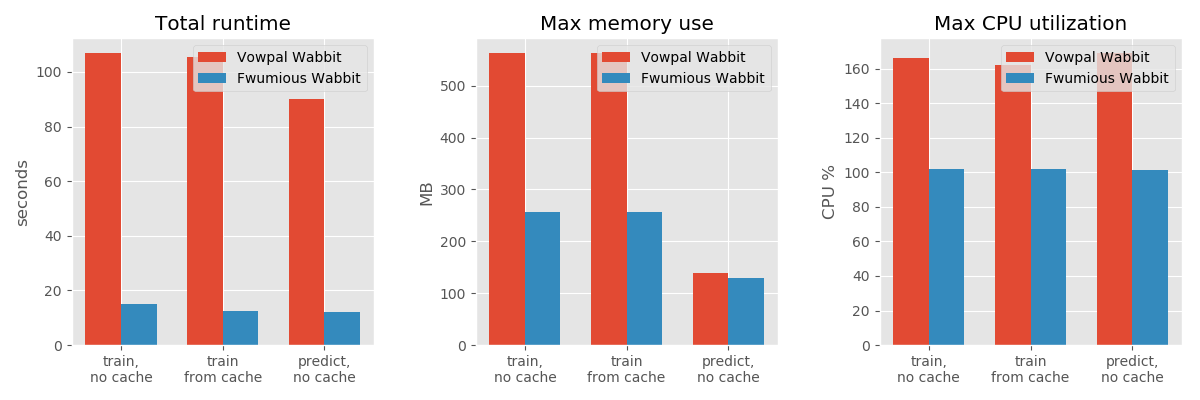
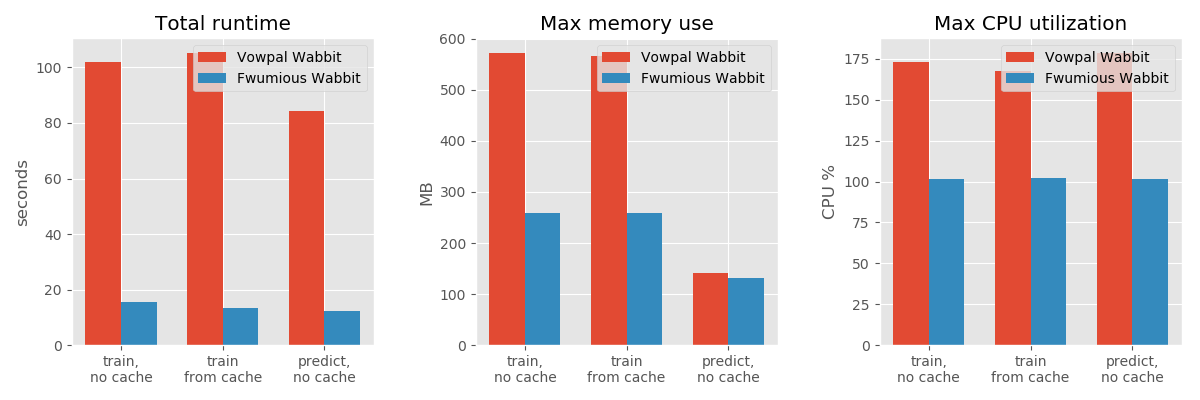
bumping version & benchmark info

diff --git a/src/version.rs b/src/version.rs
@@ -1,1 +1,1 @@
-pub static LATEST: &str = "0.2";
+pub static LATEST: &str = "0.1";

diff --git a/BENCHMARK.md b/BENCHMARK.md
@@ -14,12 +14,12 @@ here are the results for 3 runs for each scenario, taking mean values:
 ![benchmark results](benchmark_results.png)
 Scenario|Runtime (seconds)|Memory (MB)|CPU %
 ----|----:|----:|----:
-vw train, no cache|106.96 | 563 | 166.17
-fw train, no cache|15.21 | 257 | 102.00
-vw train, using cache|105.56 | 562 | 161.87
-fw train, using cache|12.63 | 257 | 102.10
-vw predict, no cache|90.00 | 139 | 169.03
-fw predict, no cache|12.25 | 129 | 101.40
+vw train, no cache|102.05 | 573 | 173.20
+fw train, no cache|15.47 | 259 | 101.70
+vw train, using cache|105.24 | 566 | 167.60
+fw train, using cache|13.37 | 259 | 102.27
+vw predict, no cache|84.16 | 141 | 178.60
+fw predict, no cache|12.28 | 131 | 101.83
 
 ### Model equivalence
 loss values for the test set:
@@ -81,8 +81,8 @@ or, if you just want the numbers with less dependencies run:
 
 ### versions:
 ```
-vowpal wabbit 8.9.0 (git commit: cfa6749a9)
-fwumious wabbit 0.2 (git commit: 6910559)
+vowpal wabbit 8.9.2 (git commit: 884420267)
+fwumious wabbit 0.1 (git commit: 365f44f)
 ```
 
 ### CPU Info
@@ -92,5 +92,5 @@ Intel(R) Xeon(R) CPU E5-2630 v2 @ 2.60GHz
 ### Operating System
 ```
 System: Linux
-Version: #186-Ubuntu SMP Mon Dec 4 19:09:19 UTC 2017
+Version: #151-Ubuntu SMP Fri Jun 18 19:21:19 UTC 2021
 ```
